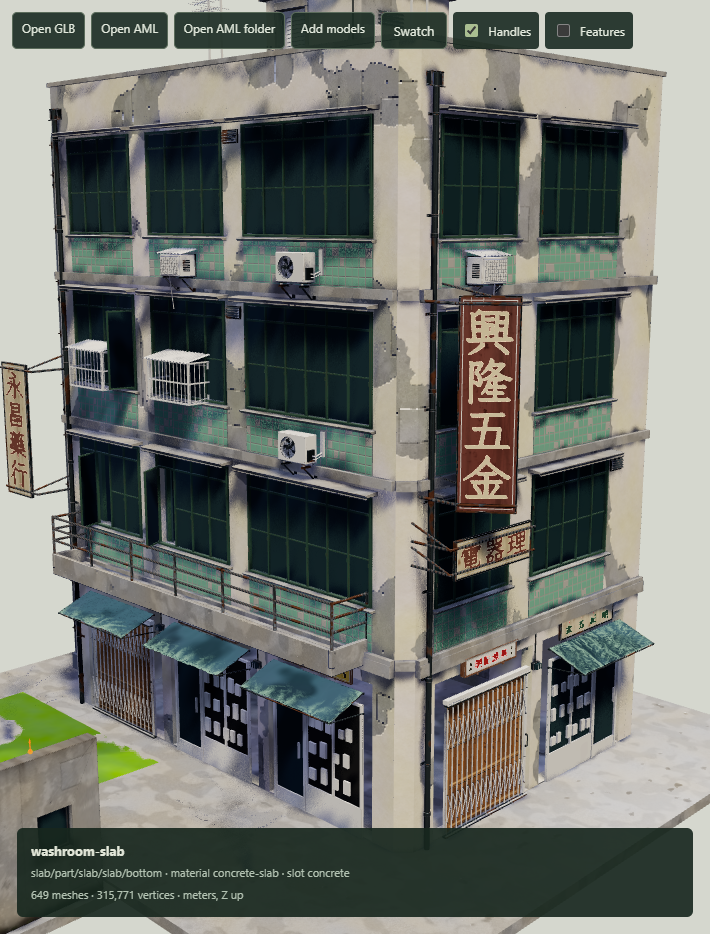
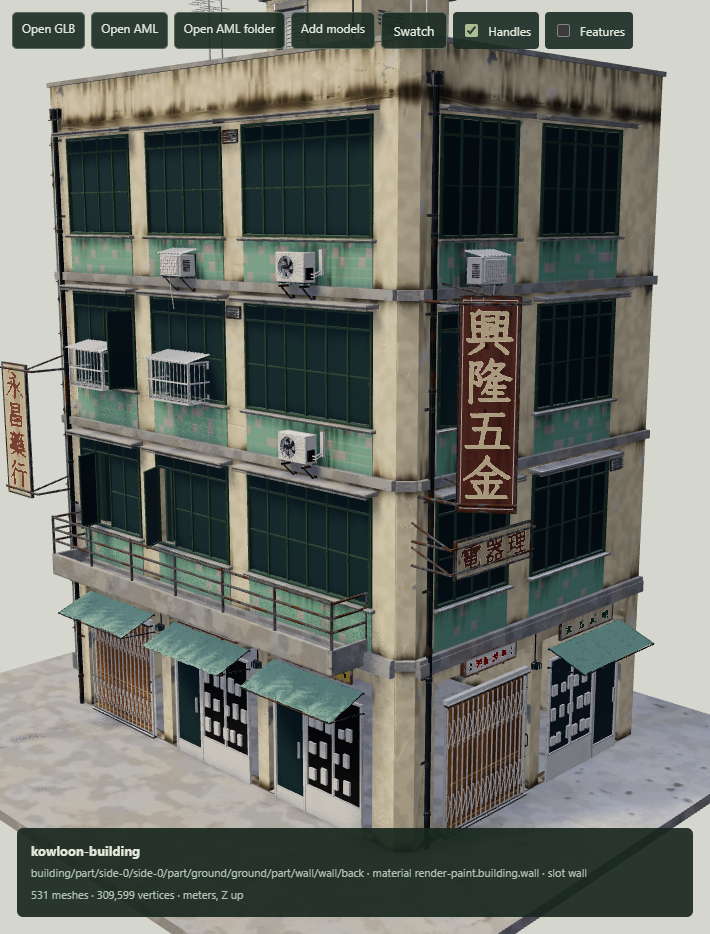
Kowloon runoff streaks, and a bake allowance the building fits in
- kowloon-runoff: the Kowloon wall condition's runoff (wall.rs runoff_at and
  deposit_detail) as a MaterialSpec layer following a named feature: a
  streak per column of its own strength and length, fading as
  (1 - drop / reach)^1.4, a lip under the source and a fine vertical
  grain. Floors, ground floors and parapets use it in place of the
  band-shaped top grime, on the walls and the tiled spandrels; identical
  layers merge so a side stays within 8 layers a slot.
- The grime never showed before: most of the building's receivers did not
  fit the preview's 512 MiB of baked maps and stayed on the per-pixel look,
  which shows a layered slot's base alone. ?bakememory=<MiB> raises the
  allowance; item-facade-browser asks for 6 GiB at 1024 px and 160 texels
  a meter, and logs the studio's bake report.
- item_scene checks that a weathered item slot's receivers are given the
  features its layers follow.

diff --git a/crates/engine/src/materialspec/program/examples/kowloon-runoff.material.ts b/crates/engine/src/materialspec/program/examples/kowloon-runoff.material.ts
@@ -1,0 +1,45 @@
+// Rain runoff streaking down from a ledge, as a weathering layer: the Kowloon wall condition's runoff
+// (worldspec/themes/kowloon/wall.rs, `runoff_at` and `deposit_detail`) measured from the feature the slot names
+// `source` instead of authored ledge records. Below the source each column of the wall gets a streak of its own
+// strength and length (up to `length`, 2.8 m by default), fading as (1 - drop / reach)^1.4, with a dark lip right
+// under the source; the deposit is broken up by the wall condition's fine vertical grain, so it reads as streaks
+// rather than a band. `flow` is how much water the source sheds (a floor line 1, a sill 0.8). It darkens the surface
+// beneath by multiplication, toward the wall condition's grey-brown pigment.
+import { defineLayer, param, featureDistance, smoothstep, pow, max, min, add, mul, sub, div, vec2, vec3, seed, surface, valueNoise } from "@superspec/material/v1";
+import { fractal } from "./kowloon-noise.material";
+
+const grime = param.scalar({ default: 0.6, range: [0, 1], label: "Grime" });
+const flow = param.scalar({ default: 1, range: [0, 1], label: "Flow" });
+const longest = param.scalar({ default: 2.8, range: [0.3, 6], unit: "m", label: "Longest streak" });
+// How dark the deposit is against the surface beneath; the wall condition's own deposits are 1.
+const strength = param.scalar({ default: 1.8, range: [0, 4], label: "Strength" });
+
+const u = surface.x;
+const z = surface.y;
+const drop = featureDistance("source", 6);
+
+// Each column's streak: its strength (strong where the noise across the wall is high) and how far it runs.
+const streak = smoothstep(0.3, 0.78, valueNoise(vec2(mul(u, 3.4), 0.7), seed("runoff-streak")));
+const column = add(0.2, mul(0.8, streak));
+const reach = mul(
+  add(0.3, mul(mul(sub(longest, 0.3), column), valueNoise(vec2(mul(u, 2.1), 1.3), seed("runoff-reach")))),
+  add(0.4, mul(0.6, flow)));
+const streaked = mul(column, pow(max(sub(1, div(drop, reach)), 0), 1.4));
+// The lip right under the source, where water pools before it runs.
+const beneath = mul(0.55, sub(1, smoothstep(0, 0.3, drop)));
+const stain = mul(flow, min(add(streaked, beneath), 1));
+
+// The wall condition's deposit detail: fine streaks a few centimeters across that wander a little, broken
+// patches and a grain.
+const wander = mul(sub(valueNoise(vec2(mul(u, 3.1), mul(z, 1.4)), seed("runoff-wander")), 0.5), 0.06);
+const fine = fractal(vec2(mul(add(u, wander), 17), mul(z, 2.3)), seed("runoff-fine"));
+const broken = fractal(vec2(mul(u, 13), mul(z, 11)), seed("runoff-broken"));
+const grain = valueNoise(vec2(mul(u, 71), mul(z, 67)), seed("runoff-grain"));
+const detail = add(add(add(0.12, mul(0.62, smoothstep(0.36, 0.68, fine))), mul(0.18, broken)), mul(0.08, grain));
+
+export default defineLayer({
+  name: "Kowloon runoff",
+  coverage: min(mul(mul(mul(grime, min(mul(stain, 0.85), 1)), detail), strength), 1),
+  baseColor: vec3(0.36, 0.34, 0.31),
+  blend: { baseColor: "multiply" },
+});

diff --git a/browser/renderer/bake.ts b/browser/renderer/bake.ts
@@ -31,7 +31,12 @@ export const GPU_PREVIEW_PROFILE = "gpu-preview";
  * 39.4 MiB at 256 px and 71.2 MiB at 512 px; after a wall drag and release the graph holds 853 textures, 62.5 and
  * 129.4 MiB (117 idle, 23.2 and 59.7 MiB). The old count of 96 idle nodes kept under a seventh of the scene's textures.
  */
-export const SCENE_MAP_BYTES = 512 * 1024 * 1024;
+export const SCENE_MAP_BYTES = sceneMapMebibytes() * 1024 * 1024;
+/** 512 MiB, or what the page asks for with `?bakememory=<MiB>` (64 to 8192): a large scene on a real GPU wants more. */
+function sceneMapMebibytes(): number {
+  const asked = typeof location === "undefined" ? NaN : Number(new URLSearchParams(location.search).get("bakememory"));
+  return Number.isFinite(asked) && asked >= 64 && asked <= 8192 ? asked : 512;
+}
 /**
  * The least an idle node is charged: a render target is a texture and a framebuffer object to the driver whatever
  * its size (a 16 by 16 map with mips is 1.4 KiB of texels).

diff --git a/crates/engine/tests/kowloon_facade_item.rs b/crates/engine/tests/kowloon_facade_item.rs
@@ -165,15 +165,16 @@ fn a_floor_is_a_wall_with_its_windows_fixtures_and_weathering() {
     );
     let follows: Vec<String> = floor.layers["wall"][1..]
         .iter()
-        .map(|layer| {
-            layer
-                .follow
-                .get("top")
-                .cloned()
-                .unwrap_or_else(|| "top".into())
-        })
+        .map(|layer| layer.follow["source"].clone())
         .collect();
+    // Runoff streaks from its top, its sills and its air conditioners' drips; on the tiled
+    // spandrels from the sills and drips.
     assert_eq!(follows, ["top", "sill", "drip"]);
+    let tiles: Vec<String> = floor.layers["tile"]
+        .iter()
+        .map(|layer| layer.follow["source"].clone())
+        .collect();
+    assert_eq!(tiles, ["sill", "drip"]);
     // Sub-item features land on the floor's own parts, in floor coordinates: each window's
     // sill where it stands (at the sill height, 0.95 m), beside the wall's own opening sills.
     let sills: Vec<_> = floor
@@ -202,7 +203,7 @@ fn a_side_stacks_a_ground_floor_upper_floors_and_a_parapet() {
         .map(|l| l.entry.as_str())
         .collect();
     for entry in [
-        "kowloon-top-grime.material.ts",
+        "kowloon-runoff.material.ts",
         "kowloon-ground-stain.material.ts",
         "kowloon-moss.material.ts",
     ] {

diff --git a/crates/engine/tests/item_scene.rs b/crates/engine/tests/item_scene.rs
@@ -658,6 +658,25 @@ fn an_items_layers_weather_its_slot_in_an_assignment_of_their_own() {
     );
     assert_eq!(bindings["wall/part/wall/wall/frame"], "steel");
     assert_eq!(bindings["pipe/part/riser/riser/body"], "steel");
+    // A GPU host composing the layer is given the wall's sill as the feature the layer follows.
+    let shaded = Session::default()
+        .shade_project(&project, 1, &asset, &|| false)
+        .unwrap_or_else(|errors| panic!("{}", messages(errors)));
+    let front = &shaded.metadata["shading"]["wall/part/wall/wall/front"];
+    assert_eq!(front["material"], "concrete.wall.concrete");
+    let layers = front["layerFeatures"]
+        .as_array()
+        .unwrap_or_else(|| panic!("{front}"));
+    let rows = layers[0].as_array().unwrap();
+    let named = rows
+        .chunks_exact(12)
+        .filter(|row| row[3].as_f64().unwrap() >= 5.)
+        .count();
+    assert!(
+        named > 0,
+        "the layer sees no sill: {} rows",
+        rows.len() / 12
+    );
 }
 #[test]
 fn native_item_scene_packet_for_parity() {

diff --git a/docs/plans/itemspec-port.md b/docs/plans/itemspec-port.md
@@ -149,6 +149,22 @@ Four differences from the picture were then closed, and the sun turned to the ot
 Renders: `itemspec/shop-house-corner.png` (the lane's plants hidden, before these fixes),
 `itemspec/shop-house-lane.png` and `itemspec/shop-house-planned.png` (after them).
 
+### Runoff streaks
+
+The reference's grime is the Kowloon wall condition's runoff (`wall.rs`, `runoff_at` and `deposit_detail`): under
+every ledge, sill and roofline each column of wall gets a streak of its own strength and length (up to 2.8 m), fading
+as (1 - drop / reach)^1.4, with a dark lip under the source and a fine, wandering vertical grain. The tiles take the
+same runoff plus their own streaky deposits and joint dirt (`tile.rs`). `kowloon-runoff` ports that runoff to a
+MaterialSpec layer that follows a named feature (`source`), and the items use it in place of the band-shaped top
+grime: floors under their top edge, sills and air conditioners' drips, on both the wall and the tiled spandrels;
+ground floors under their top and awnings; parapets under their coping. Identical layers from a side's storeys merge,
+so a side stays within the 8 layers a slot composes.
+
+The earlier grey blobs were not grime at all. At production resolution most of the building's 518 receivers did
+not fit the preview's 512 MiB of baked maps and stayed on the per-pixel look, which shows a layered slot's base alone:
+no paint, no grime. `?bakememory=<MiB>` (64 to 8192) raises the allowance; the building takes about 5.1 GiB at
+1024 px and 160 texels a meter, so `tests/item-facade-browser.mjs` asks for 6 GiB.
+
 ### The scene
 
 `tests/studio/washroom-items/build.mjs` places the side (`FACADE=1`) or the building
